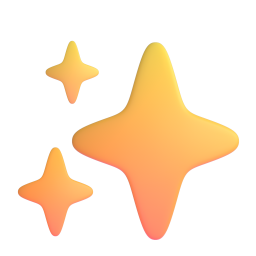
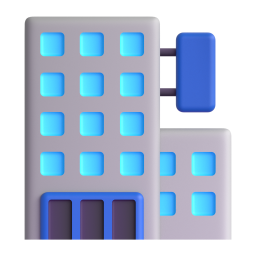
changes

diff --git a/app/(adsense)/ad-promoter/pages/add-website/AddWebsiteForm.tsx b/app/(adsense)/ad-promoter/pages/add-website/AddWebsiteForm.tsx
@@ -32,11 +32,10 @@ const StepShell = ({ step, label, onBack, embedded, children }: { step: number; 
   if (embedded) {
     return (
       <div>
-        <div className="flex items-center justify-between mb-6">
+        <div className="flex items-center mb-6">
           <button onClick={onBack} className="flex items-center text-subtle hover:text-white transition-colors text-sm">
             <ArrowLeft size={16} className="mr-1.5" /> Back
           </button>
-          <span className="px-3 py-1 text-xs font-medium bg-black text-[#fff]">Step {step} of 3: {label}</span>
         </div>
         {children}
       </div>
@@ -46,12 +45,11 @@ const StepShell = ({ step, label, onBack, embedded, children }: { step: number; 
     <div className="min-h-screen bg-background">
       <header className="border-b border-border bg-background">
         <div className="max-w-6xl mx-auto px-4">
-          <div className="h-16 flex items-center justify-between">
+          <div className="h-16 flex items-center">
             <button onClick={onBack} className="flex items-center text-subtle hover:text-white transition-colors">
               <ArrowLeft size={18} className="mr-2" />
               <span className="font-medium">Back</span>
             </button>
-            <span className="px-3 py-1 text-sm font-medium bg-black text-[#fff]">Step {step} of 3: {label}</span>
           </div>
         </div>
       </header>
@@ -252,7 +250,7 @@ const AddWebsiteForm = ({
             onClick={handleNext}
             className="w-full bg-black text-[#fff] py-3 hover:bg-gray-800 transition-colors font-medium disabled:opacity-50 flex items-center justify-center gap-2"
           >
-            Continue to Categories
+            Continue
           </button>
         </div>
       </div>
@@ -333,7 +331,7 @@ const AddWebsiteForm = ({
             disabled={selectedBusinessCategories.length === 0}
             className="bg-black text-[#fff] px-8 py-3 hover:bg-gray-800 font-medium disabled:bg-gray-300 disabled:cursor-not-allowed flex items-center gap-2"
           >
-            Continue to Website Pages
+            Continue
           </button>
         </div>
       </StepShell>
